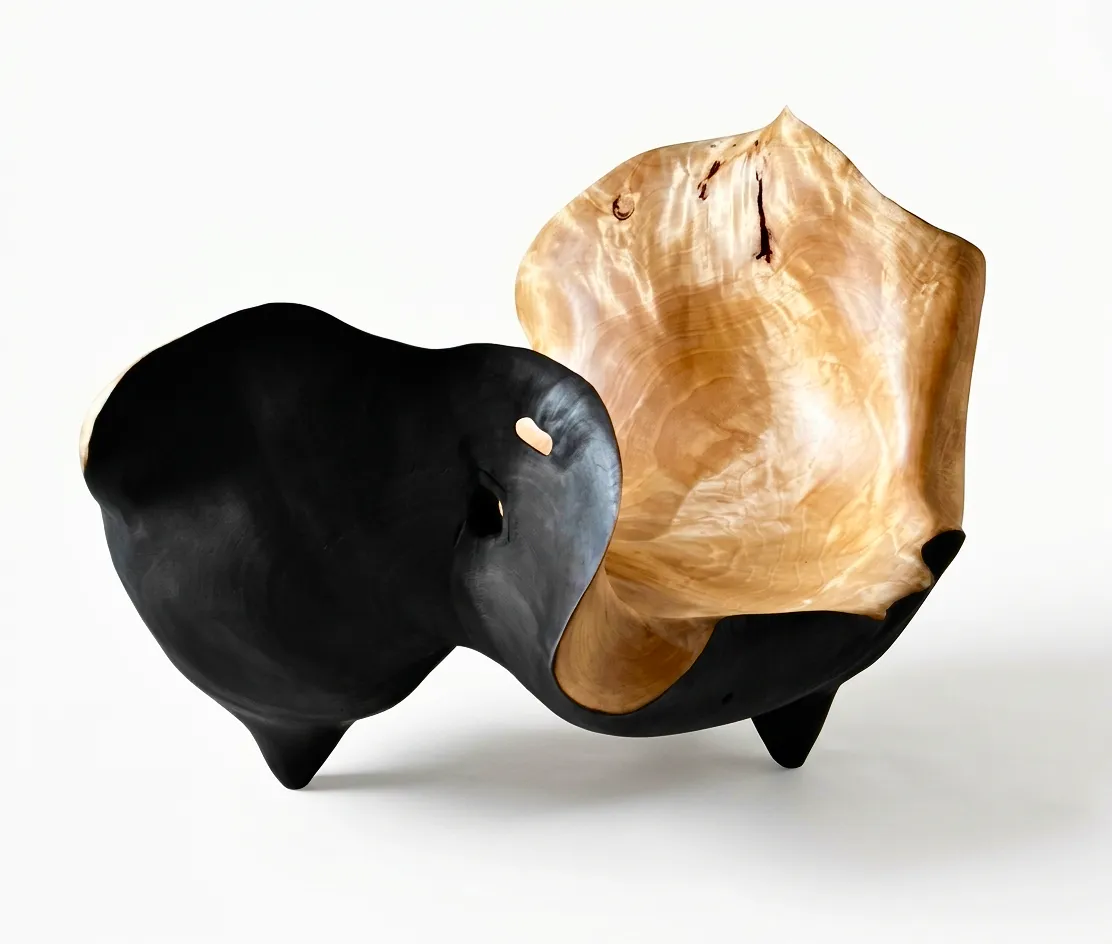
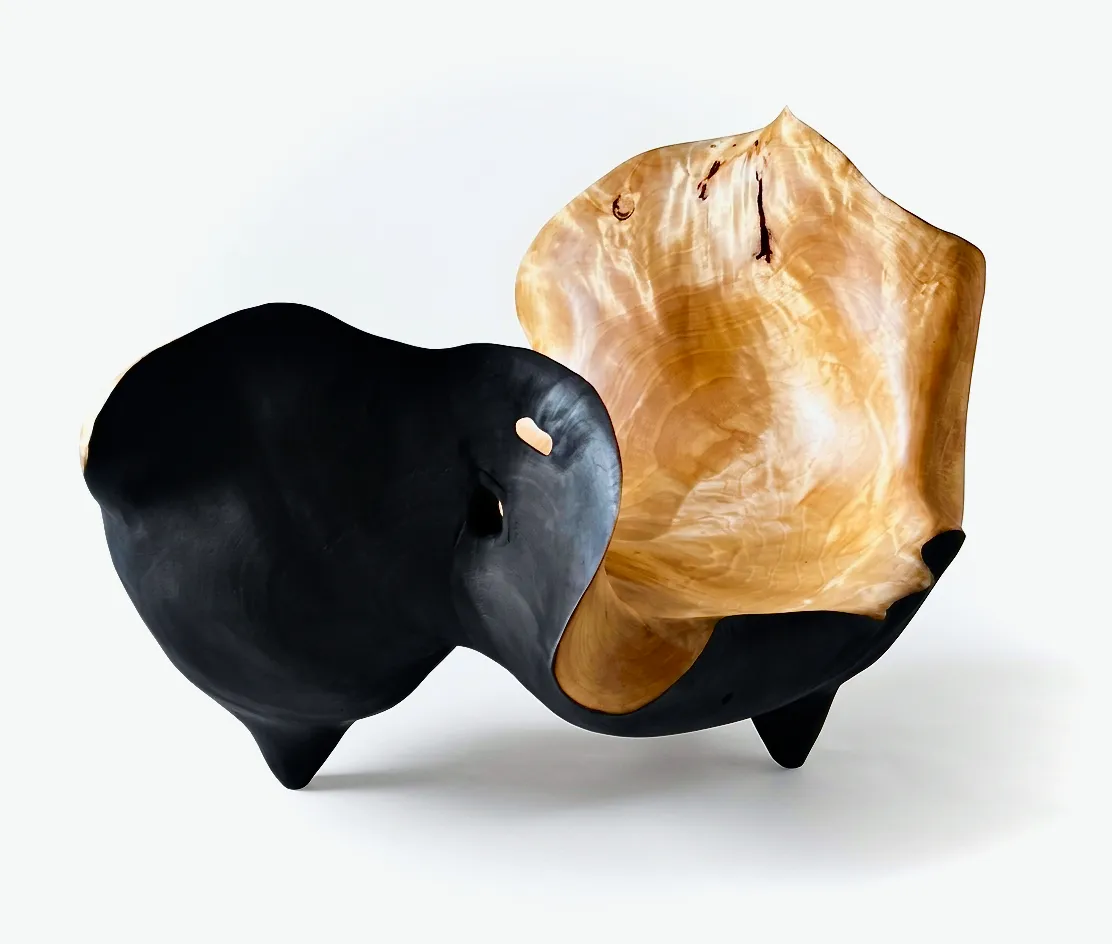
home: spacing 120/72, pads 80/22; hero photo cache-bust

Changed region(s): [[0.8255, 0.6758, 1.0, 0.9216], [0.5809, 0.3072, 0.6727, 0.4301], [0.5504, 0.5837, 0.6115, 0.6144]]

diff --git a/css/style.css b/css/style.css
@@ -13046,3 +13046,68 @@ html body.page-cube .cube-object::after {
     #F8F7F4 100%
   ) !important;
 }
+
+/* === v2112 spacing system home === */
+:root {
+  --home-pad-x: 80px;
+  --home-pad-x-m: 22px;
+  --home-block-gap: 120px;
+  --home-block-gap-m: 72px;
+}
+html body.page-cube .g12,
+html body.page-cube .cube-top,
+html body.page-cube .cube-bottom {
+  padding-left: var(--home-pad-x) !important;
+  padding-right: var(--home-pad-x) !important;
+  box-sizing: border-box !important;
+}
+html body.page-cube .cube-expo,
+html body.page-cube .cube-craft,
+html body.page-cube .cube-recog,
+html body.page-cube .cube-cta {
+  padding-top: var(--home-block-gap) !important;
+  padding-bottom: var(--home-block-gap) !important;
+  margin-top: 0 !important;
+  margin-bottom: 0 !important;
+}
+html body.page-cube .cube-cta {
+  padding-bottom: 0 !important;
+}
+html body.page-cube .cube-cta .cta-foot {
+  margin-bottom: 48px !important;
+}
+html body.page-cube .cube-expo .expo-head,
+html body.page-cube .cube-craft .craft-head {
+  margin-bottom: 48px !important;
+}
+html body.page-cube .cube-expo .lookbook {
+  row-gap: 80px !important;
+}
+html body.page-cube .cube-craft .craft-triptych {
+  margin-bottom: 64px !important;
+}
+html body.page-cube .cube-craft .craft-divider {
+  margin-bottom: 56px !important;
+}
+
+@media (max-width: 900px) {
+  html body.page-cube .g12,
+  html body.page-cube .cube-top,
+  html body.page-cube .cube-bottom {
+    padding-left: var(--home-pad-x-m) !important;
+    padding-right: var(--home-pad-x-m) !important;
+  }
+  html body.page-cube .cube-expo,
+  html body.page-cube .cube-craft,
+  html body.page-cube .cube-recog,
+  html body.page-cube .cube-cta {
+    padding-top: var(--home-block-gap-m) !important;
+    padding-bottom: var(--home-block-gap-m) !important;
+  }
+  html body.page-cube .cube-cta {
+    padding-bottom: 0 !important;
+  }
+  html body.page-cube .cube-expo .lookbook {
+    row-gap: 48px !important;
+  }
+}

diff --git a/index.html b/index.html
@@ -49,7 +49,7 @@
 }
   </script>
   <link rel="icon" href="/images/favicon.svg" type="image/svg+xml">
-  <link rel="stylesheet" href="./css/style.css?v=2111">
+  <link rel="stylesheet" href="./css/style.css?v=2112">
 
 
 
@@ -969,7 +969,7 @@ footer a[href^="mailto:"],
 
   <div class="cube-stage">
     <div class="cube-object">
-      <img src="/images/home/grid-01.jpg?v=4" alt="Скульптура из сувеля берёзы" class="cube-img">
+      <img src="/images/home/grid-01.jpg?v=5" alt="Скульптура из сувеля берёзы" class="cube-img">
       <div class="cube-shadow" aria-hidden="true"></div>
     </div>
   </div>
